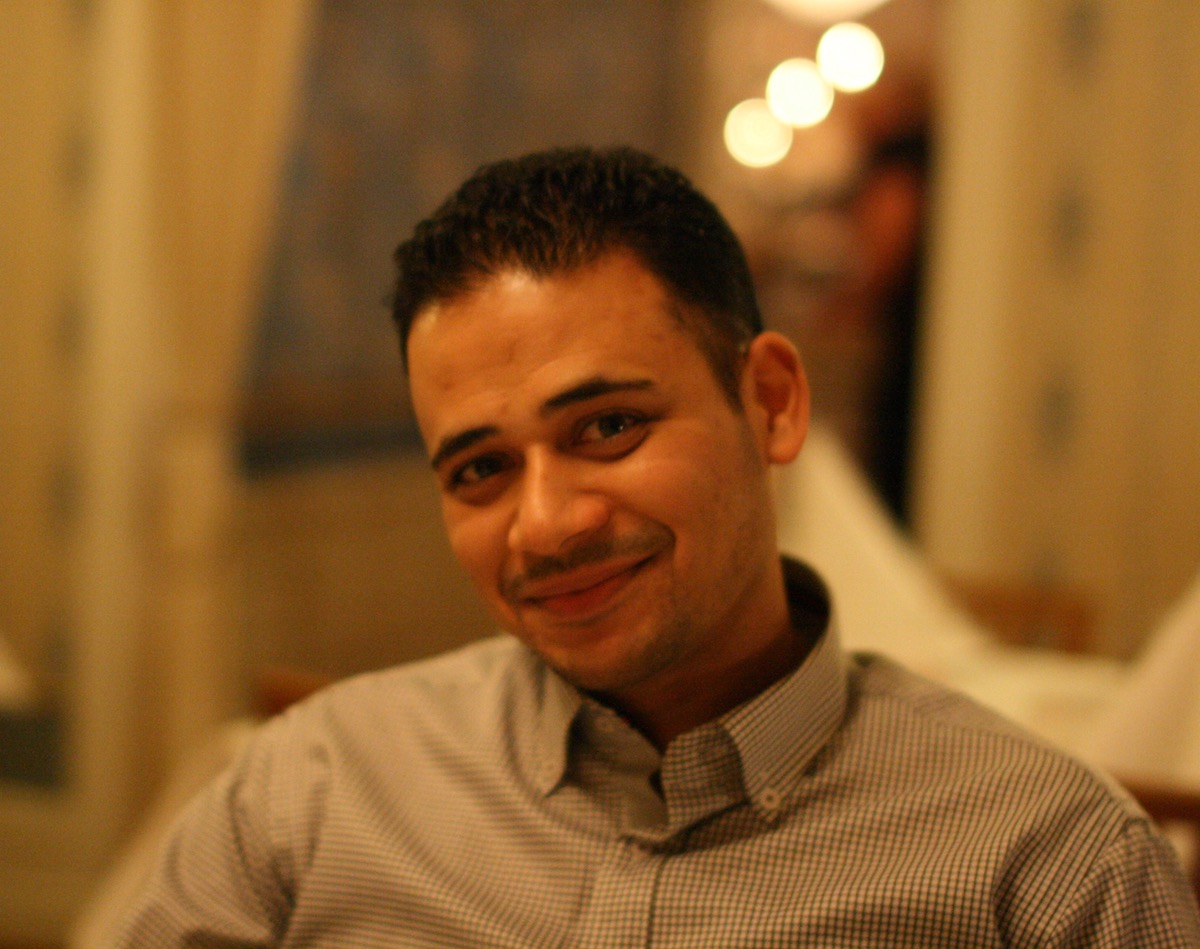
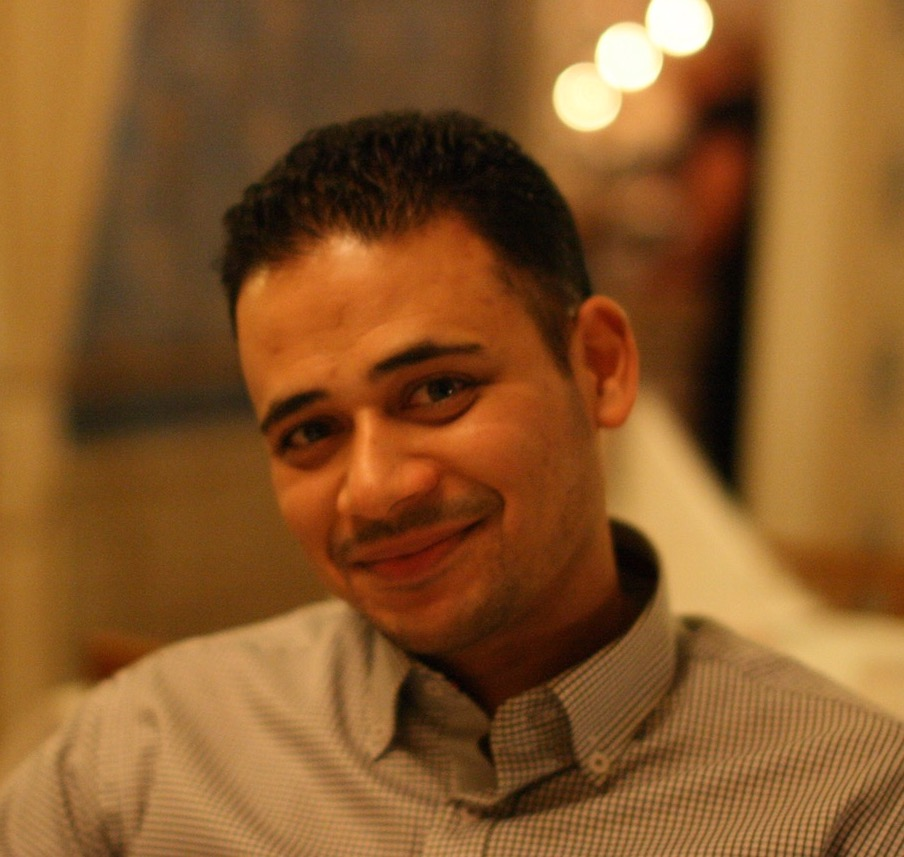
style info background

diff --git a/style.css b/style.css
@@ -1,0 +1,25 @@
+body {
+	margin: 0;
+}
+.info {
+	flex-direction: column;
+	background: url("images/info_background.jpg") no-repeat center center fixed;
+  -webkit-background-size: cover;
+  -moz-background-size: cover;
+  -o-background-size: cover;
+  background-size: cover;
+  height: 100vh;
+}
+.info img {
+	  width: 150px;
+	  height: 150px;
+	  border-radius: 50%;
+	  margin-top: 2em;
+	}
+}
+
+/*img {
+			width: 200px;
+			height: 200px;
+			border-radius: 50%;
+		}*/

diff --git a/index.html b/index.html
@@ -12,6 +12,16 @@
 		<script defer src="https://use.fontawesome.com/releases/v5.0.2/js/all.js"></script>
 	</head>
 	<body>
+		<div class="resume">
+			<div class="info">
+				<div class="container-fluid center-xs">
+					<!-- <p>foto name title</p> -->
+					<img src="images/foto.jpg">
+					<h1>HK</h1>
+					<h2>Web developer</h2>
+				</div>
+			</div>
+		</div>
 
 	</body>
 </html>
